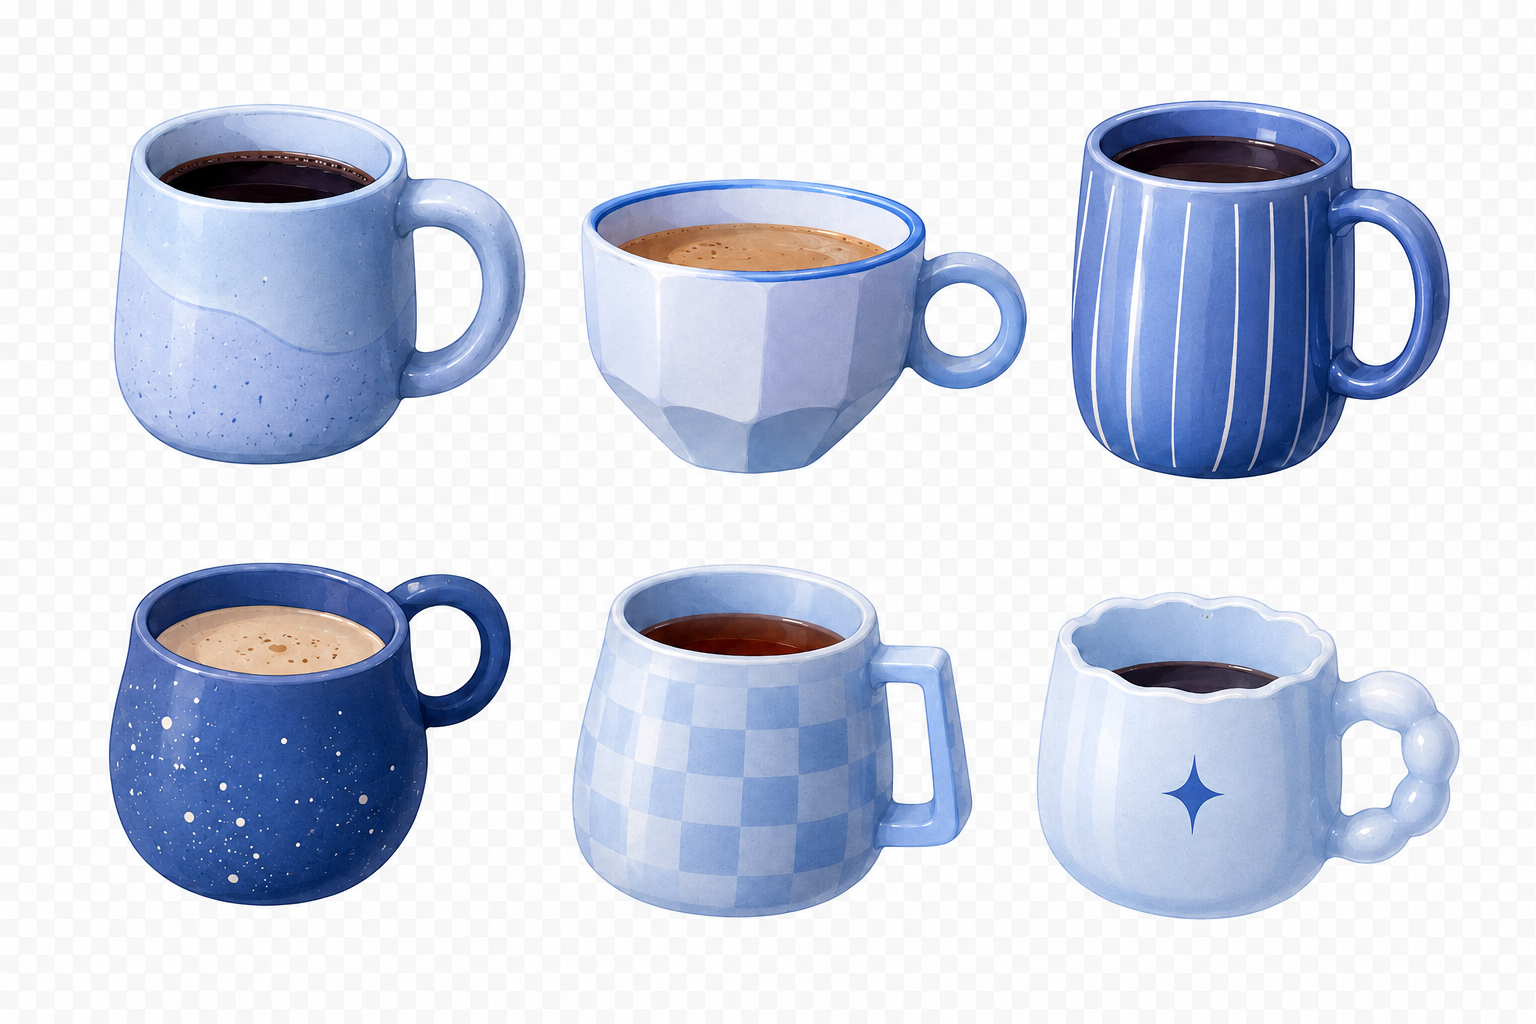
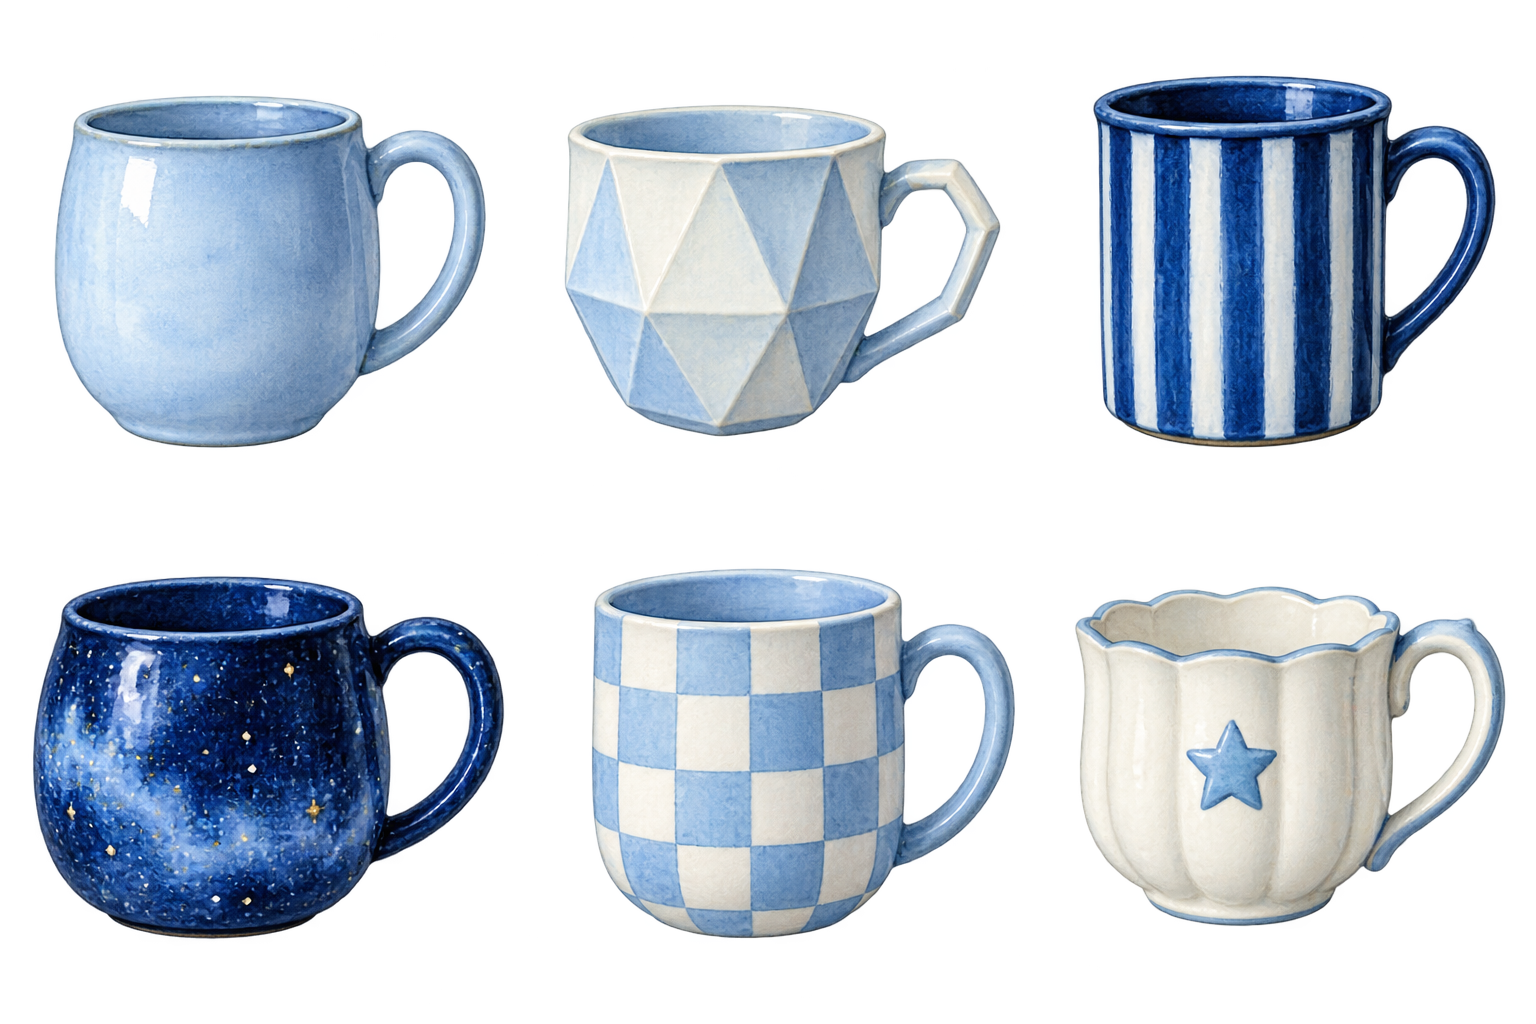
Move cup quests to exercises

diff --git a/src/styles/neuro-cups.css b/src/styles/neuro-cups.css
@@ -1,6 +1,5 @@
 .fill-cup-widget {
   position: relative;
-  margin-top: 18px;
   padding: 24px;
   border: 1px solid rgba(56, 189, 248, 0.28);
   border-radius: 8px;
@@ -48,7 +47,7 @@
 
 .cup-front {
   display: grid;
-  grid-template-rows: minmax(0, 1fr) auto auto;
+  grid-template-rows: minmax(0, 1fr) auto;
   gap: 8px;
   padding: 10px;
   background: rgba(30, 41, 59, 0.78);
@@ -75,7 +74,6 @@
   min-height: 92px;
   background-repeat: no-repeat;
   background-size: 300% 200%;
-  mix-blend-mode: screen;
 }
 
 .sprite-0 { background-position: 0 0; }
@@ -85,7 +83,6 @@
 .sprite-4 { background-position: 50% 100%; }
 .sprite-5 { background-position: 100% 100%; }
 
-.cup-front > strong { min-height: 38px; font-size: 14px; line-height: 1.25; }
 .cup-lock { display: grid; gap: 6px; color: #cbd5e1; font-size: 11px; }
 .cup-lock i { height: 5px; overflow: hidden; border-radius: 99px; background: rgba(255,255,255,.1); }
 .cup-lock b { display: block; height: 100%; border-radius: inherit; background: #38bdf8; }

diff --git a/src/components/neuro/Dashboard.tsx b/src/components/neuro/Dashboard.tsx
@@ -1,5 +1,4 @@
 import { BrainCard } from './BrainCard';
-import { FillYourCupWidget } from './FillYourCupWidget';
 import { LanguageSwitch } from './LanguageSwitch';
 import { SciencePanel } from './SciencePanel';
 import { ScreenTimeInsight } from './ScreenTimeInsight';
@@ -76,7 +75,6 @@ export function Dashboard({
       {activeTab === 'home' ? (
         <>
           <BrainCard focusMinutes={focusMinutes} health={health} language={language} state={brainState} />
-          <FillYourCupWidget />
           {screenInsight && <ScreenTimeInsight insight={screenInsight} language={language} />}
           <div className="secondary-actions">
             <label className="secondary-button">

diff --git a/src/components/neuro/TrainingPanel.tsx b/src/components/neuro/TrainingPanel.tsx
@@ -2,6 +2,7 @@ import { useEffect, useState } from 'react';
 import type { BrainZone } from '../../lib/brainLogic';
 import type { Language } from '../../lib/language';
 import { BreathTrainer } from './BreathTrainer';
+import { FillYourCupWidget } from './FillYourCupWidget';
 import { getMemoryCopy } from './trainingCopy';
 
 const colors = [
@@ -21,6 +22,7 @@ export function TrainingPanel({ language, zone }: Props) {
 
   return (
     <div className="exercises-stack">
+      <FillYourCupWidget />
       <BreathTrainer language={language} />
       {zoneExercise}
     </div>

diff --git a/src/components/neuro/FillYourCupWidget.tsx b/src/components/neuro/FillYourCupWidget.tsx
@@ -102,7 +102,6 @@ function CupCard(props: CupCardProps) {
       <div className="cup-card-inner">
         <button className={`cup-card-face cup-front ${cup.id}`} disabled={isDimmed} onClick={onChoose} type="button">
           <span className={`cup-art sprite-${cup.sprite}`} style={{ backgroundImage: `url(${cupCollection})` }} />
-          <strong>{cup.name}</strong>
           {isLocked && (
             <span className="cup-lock">
               <span>🔒 Нужно {cup.unlockXP} XP</span>
